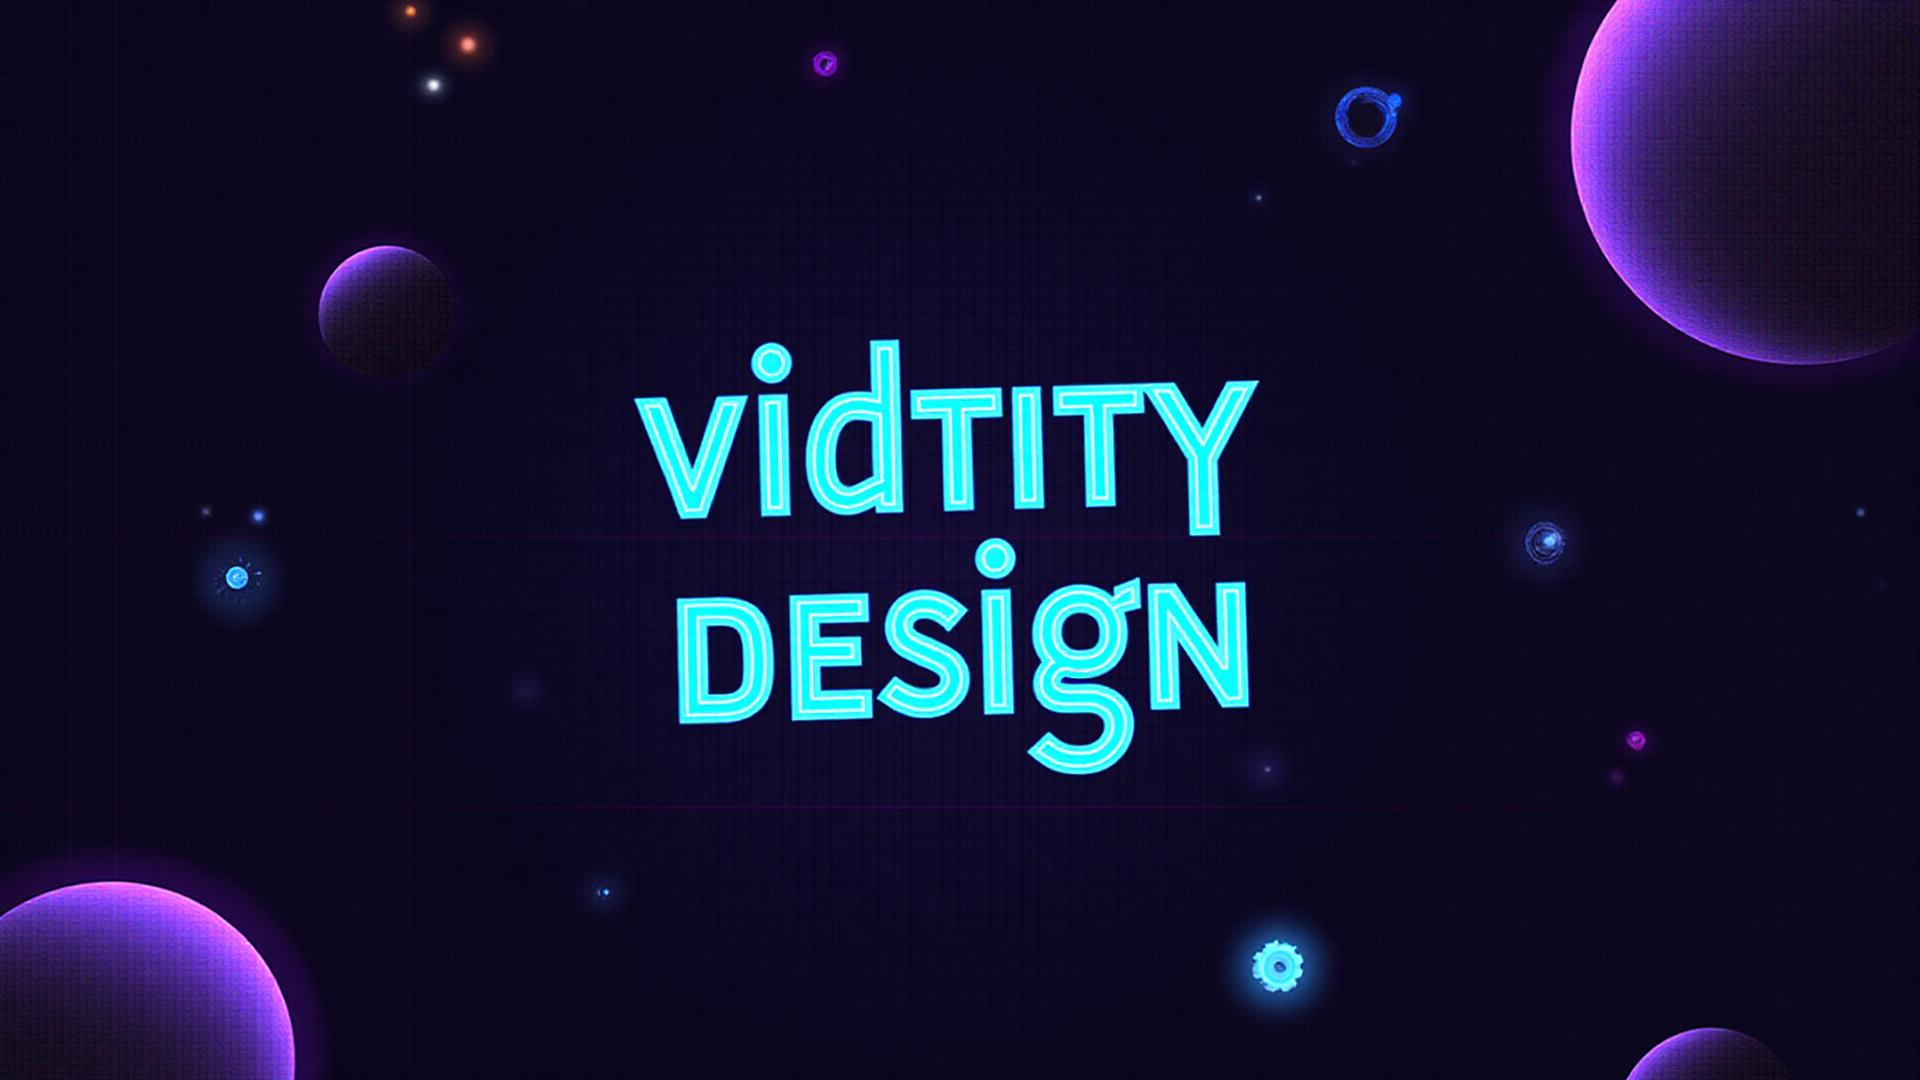
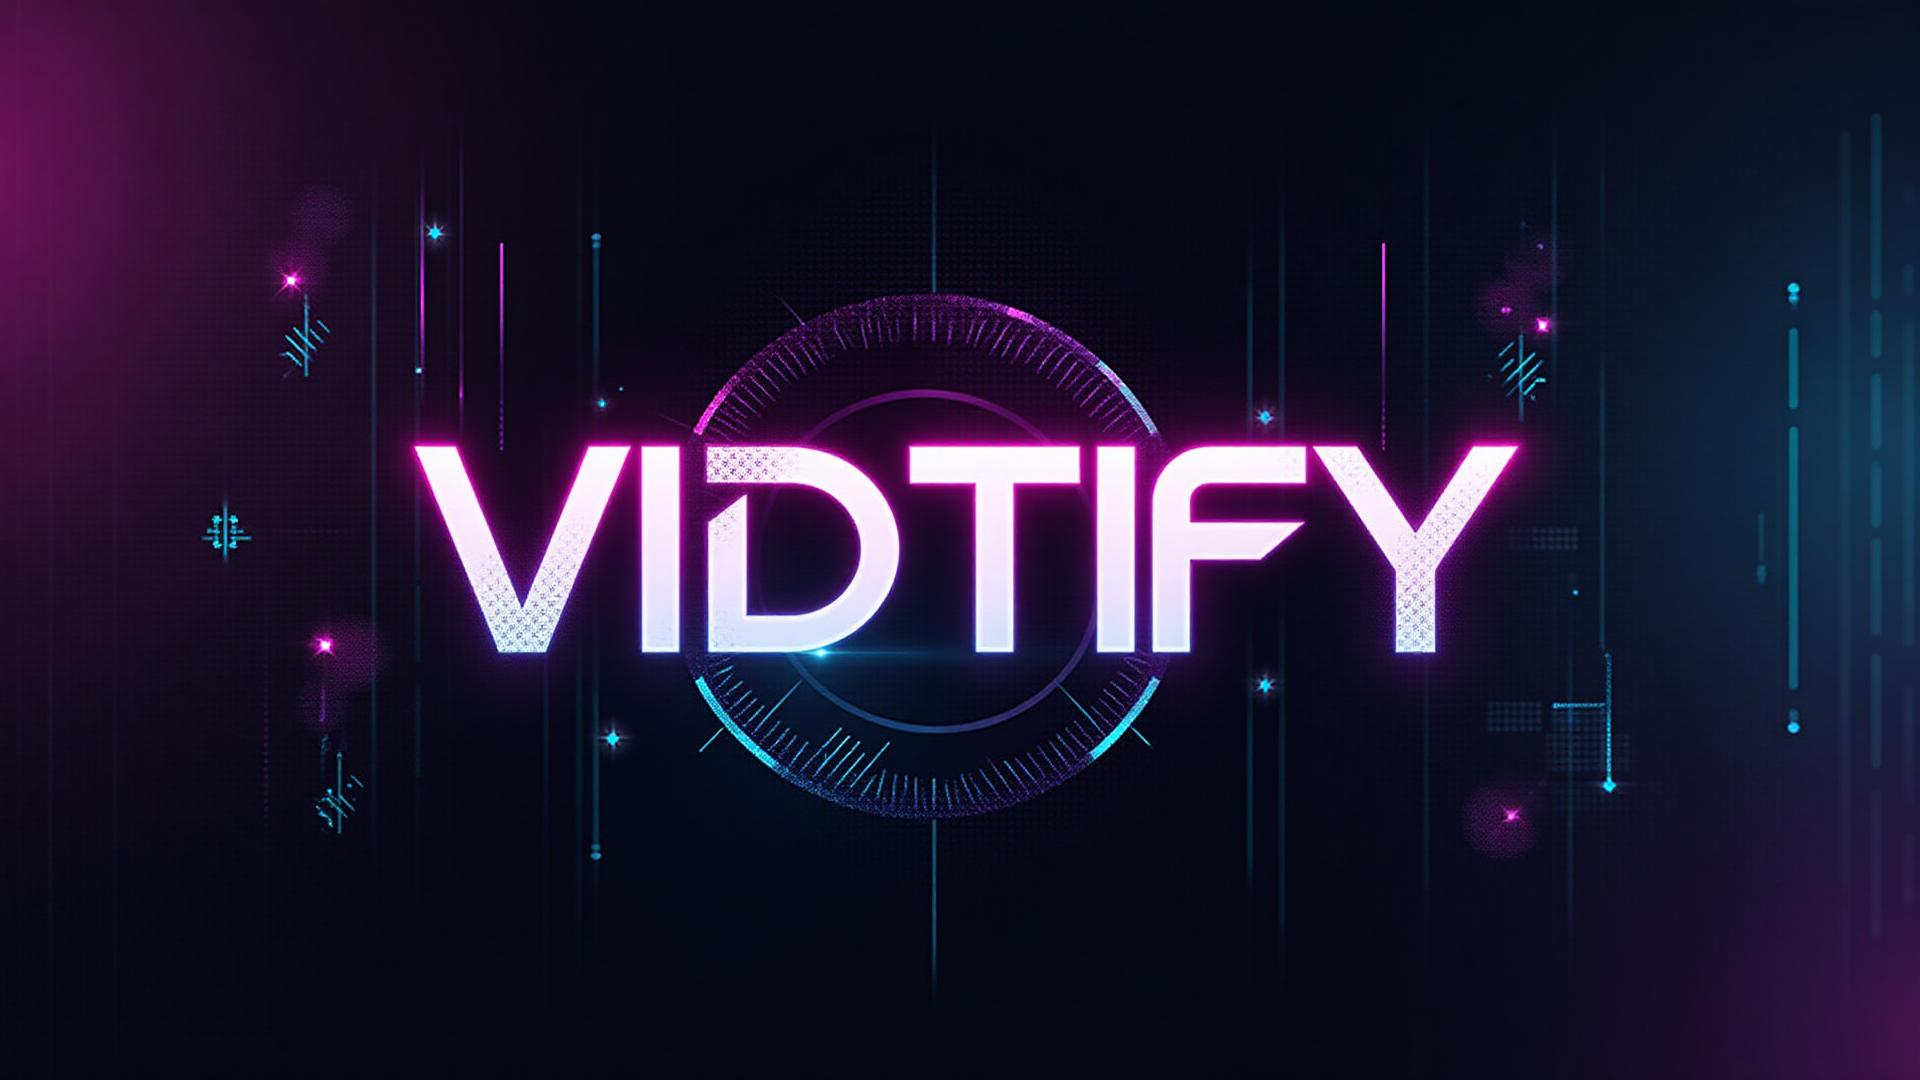
Update hero background image

diff --git a/src/components/Hero.tsx b/src/components/Hero.tsx
@@ -1,6 +1,6 @@
 import { Button } from "@/components/ui/button";
 import { ArrowRight, Zap, Sparkles } from "lucide-react";
-import heroImage from "@/assets/hero-bg-vidtify.jpg";
+import heroImage from "@/assets/hero-bg.jpg";
 const Hero = () => {
   return <section className="relative min-h-screen flex items-center justify-center overflow-hidden">
       {/* Background Image */}

diff --git a/src/components/ComingSoon.tsx b/src/components/ComingSoon.tsx
@@ -1,5 +1,5 @@
 import { Sparkles, Clock, Zap } from "lucide-react";
-import heroImage from "@/assets/hero-bg-vidtify.jpg";
+import heroImage from "@/assets/hero-bg.jpg";
 
 const ComingSoon = () => {
   return (
